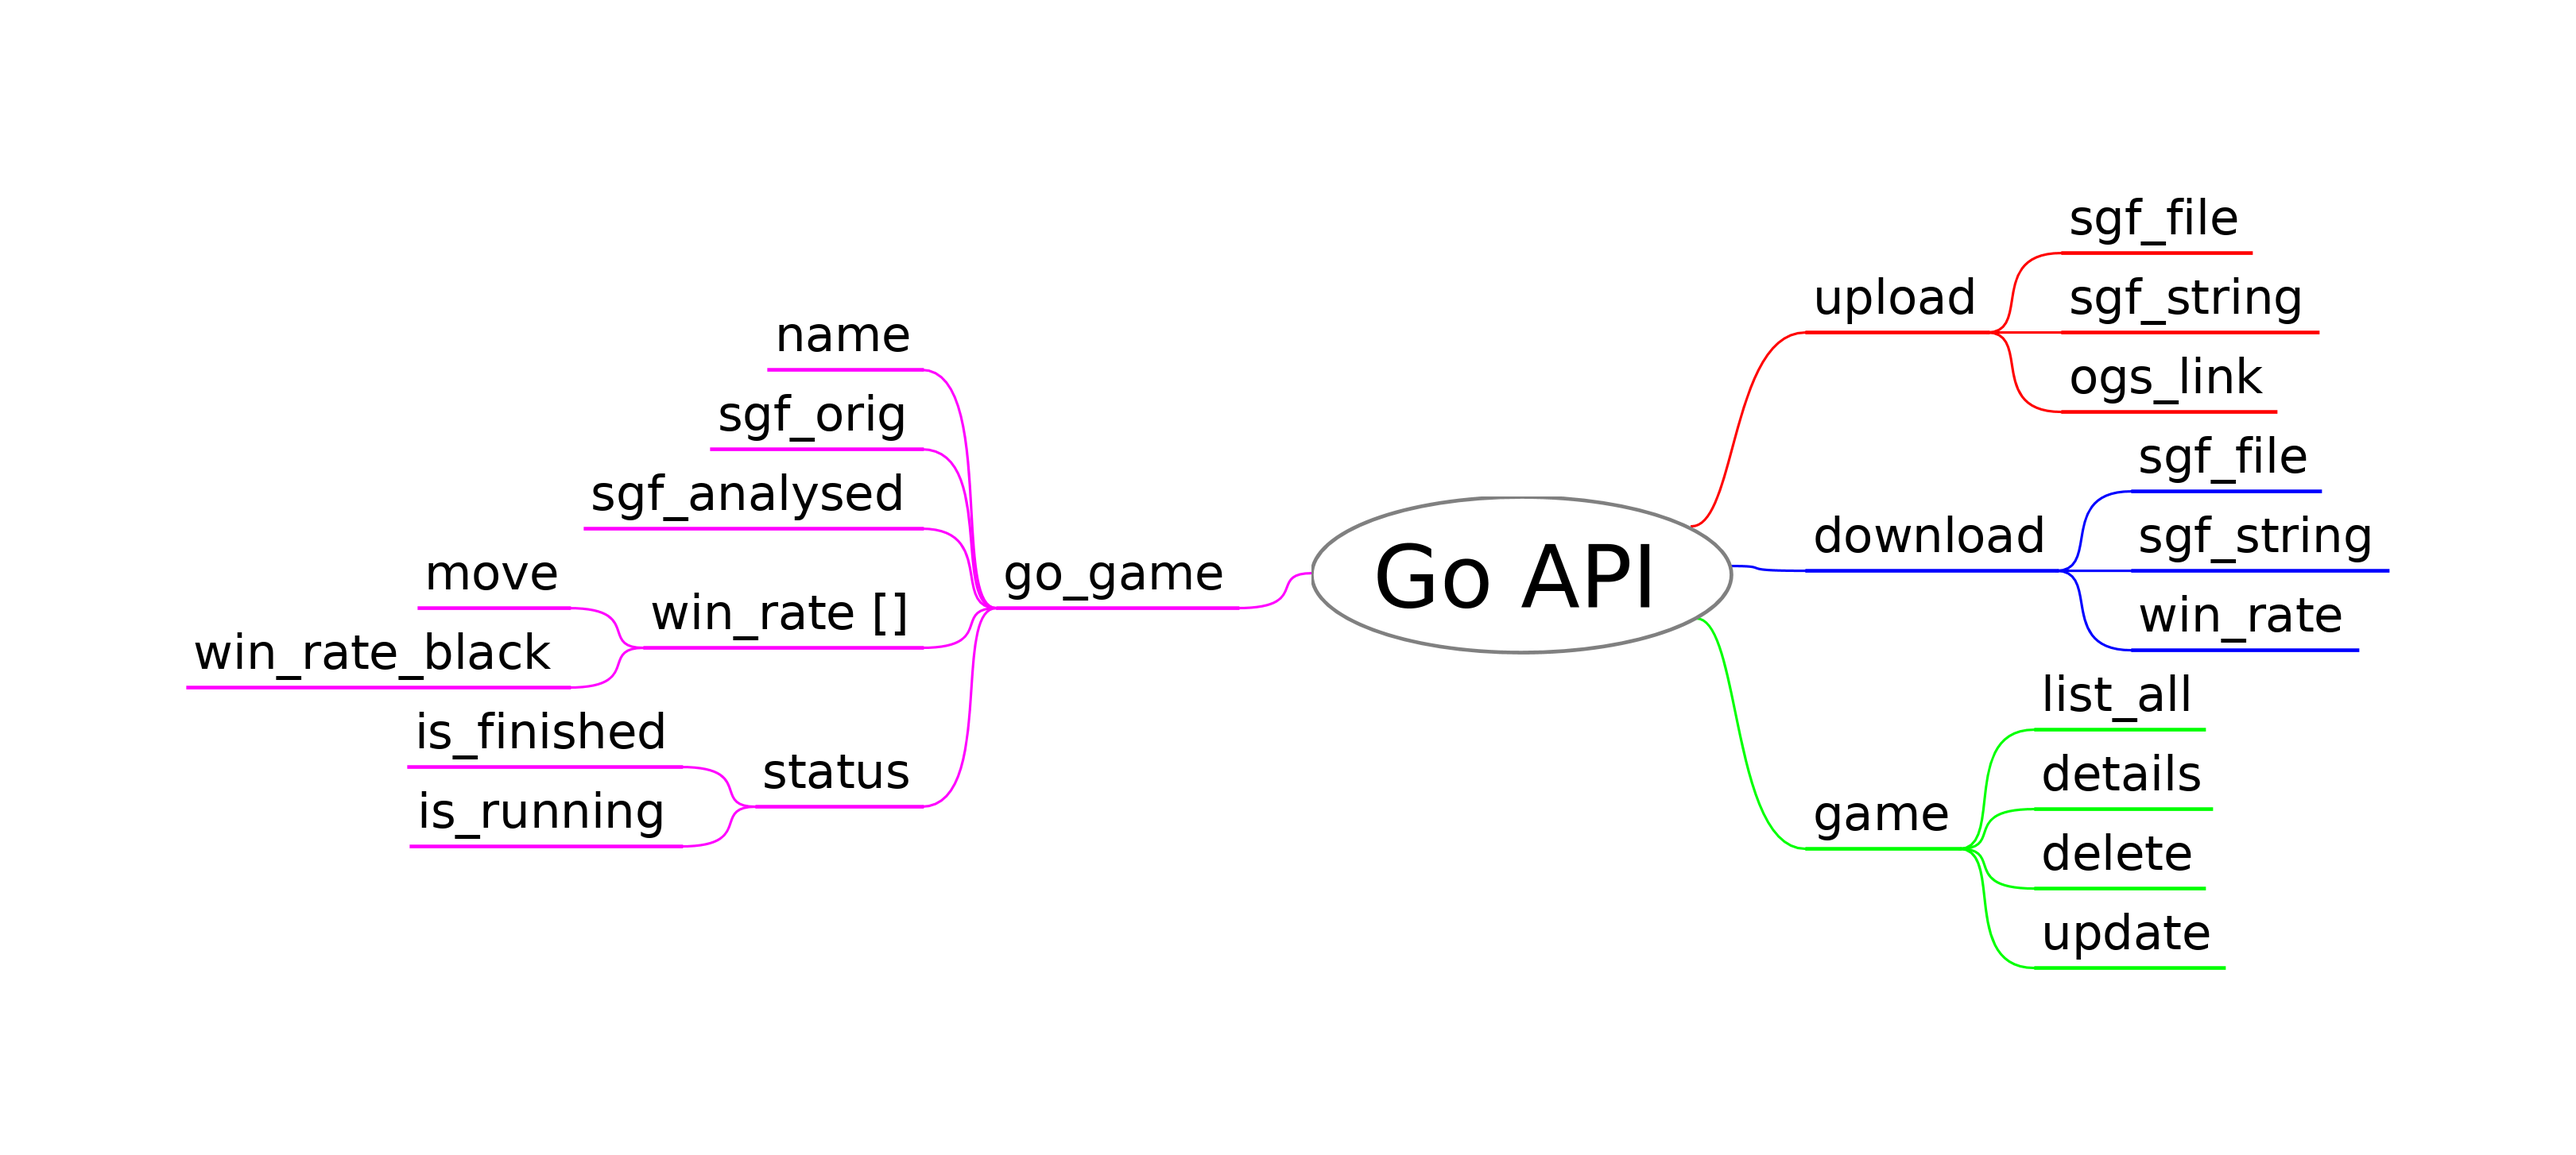
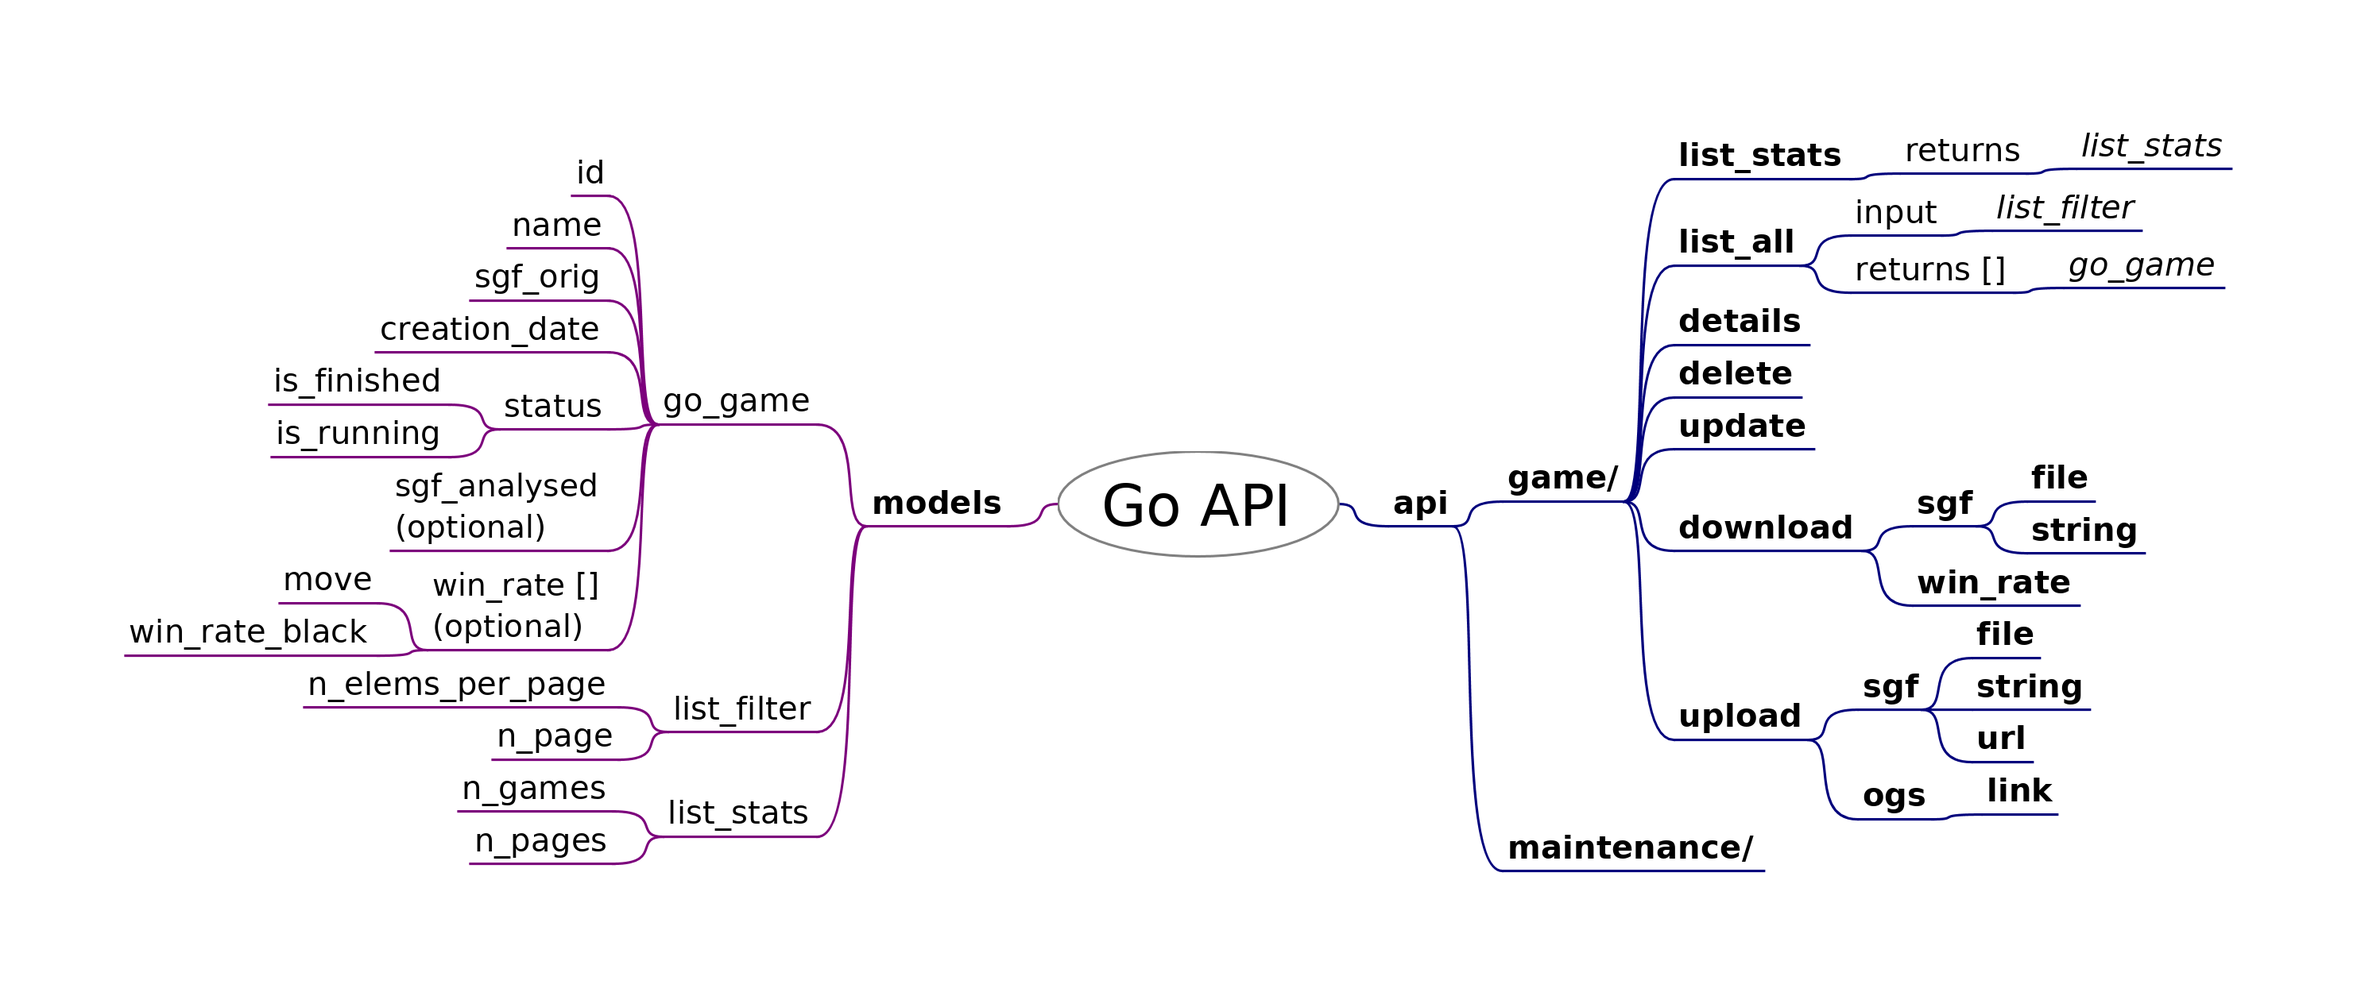
simplified the api, started to fill it (list, upload)

diff --git a/lz_api/doc/Go_API.mm b/lz_api/doc/Go_API.mm
@@ -2,7 +2,7 @@
 <!--To view this file, download free mind mapping software Freeplane from http://freeplane.sourceforge.net -->
 <node TEXT="Go API" FOLDED="false" ID="ID_589159613" CREATED="1557085032286" MODIFIED="1557085055442" STYLE="oval">
 <font SIZE="18"/>
-<hook NAME="MapStyle" zoom="1.5">
+<hook NAME="MapStyle">
     <properties edgeColorConfiguration="#808080ff,#ff0000ff,#0000ffff,#00ff00ff,#ff00ffff,#00ffffff,#7c0000ff,#00007cff,#007c00ff,#7c007cff,#007c7cff,#7c7c00ff" fit_to_viewport="false"/>
 
 <map_styles>
@@ -63,38 +63,109 @@
 </stylenode>
 </map_styles>
 </hook>
-<hook NAME="AutomaticEdgeColor" COUNTER="6" RULE="ON_BRANCH_CREATION"/>
-<node TEXT="upload" POSITION="right" ID="ID_1831737546" CREATED="1557085068928" MODIFIED="1557085074042">
-<edge COLOR="#ff0000"/>
-<node TEXT="sgf_file" ID="ID_1039764863" CREATED="1557085074727" MODIFIED="1557085081961"/>
-<node TEXT="sgf_string" ID="ID_989102220" CREATED="1557085147666" MODIFIED="1557085194710"/>
-<node TEXT="ogs_link" ID="ID_1282616712" CREATED="1557085082272" MODIFIED="1557085160093"/>
+<hook NAME="AutomaticEdgeColor" COUNTER="9" RULE="ON_BRANCH_CREATION"/>
+<node TEXT="api" POSITION="right" ID="ID_144943947" CREATED="1557168431692" MODIFIED="1557168577504">
+<edge COLOR="#00007c"/>
+<font BOLD="true" ITALIC="false"/>
+<node TEXT="game/" ID="ID_1853707191" CREATED="1557085213435" MODIFIED="1557170858689">
+<font BOLD="true"/>
+<node TEXT="list_stats" ID="ID_1895074512" CREATED="1557170835864" MODIFIED="1557170861417">
+<font BOLD="true"/>
+<node TEXT="returns" ID="ID_1651328029" CREATED="1557170840800" MODIFIED="1557170854729">
+<font ITALIC="false"/>
+<node TEXT="list_stats" ID="ID_408615461" CREATED="1557170921153" MODIFIED="1557170955569">
+<font ITALIC="true"/>
 </node>
-<node TEXT="download" POSITION="right" ID="ID_1873904492" CREATED="1557085133530" MODIFIED="1557085136492">
-<edge COLOR="#0000ff"/>
-<node TEXT="sgf_file" ID="ID_1595185954" CREATED="1557085138273" MODIFIED="1557085143950"/>
-<node TEXT="sgf_string" ID="ID_719820272" CREATED="1557085170930" MODIFIED="1557085198846"/>
-<node TEXT="win_rate" ID="ID_1382339492" CREATED="1557085790278" MODIFIED="1557085793056"/>
 </node>
-<node TEXT="game" POSITION="right" ID="ID_1853707191" CREATED="1557085213435" MODIFIED="1557085323151">
-<edge COLOR="#00ff00"/>
-<node TEXT="list_all" ID="ID_831796552" CREATED="1557085215931" MODIFIED="1557085330633"/>
-<node TEXT="details" ID="ID_442193816" CREATED="1557085222491" MODIFIED="1557085340376"/>
-<node TEXT="delete" ID="ID_1295768095" CREATED="1557085569047" MODIFIED="1557085573809"/>
-<node TEXT="update" ID="ID_1105595237" CREATED="1557085595349" MODIFIED="1557085597064"/>
 </node>
-<node TEXT="go_game" POSITION="left" ID="ID_684286583" CREATED="1557085386711" MODIFIED="1557085392130">
-<edge COLOR="#ff00ff"/>
+<node TEXT="list_all" ID="ID_831796552" CREATED="1557085215931" MODIFIED="1557170861937">
+<font BOLD="true"/>
+<node TEXT="input" ID="ID_344615804" CREATED="1557170687792" MODIFIED="1557170689906">
+<node TEXT="list_filter" ID="ID_1077375188" CREATED="1557170820817" MODIFIED="1557170917069">
+<font ITALIC="true"/>
+</node>
+</node>
+<node TEXT="returns []" ID="ID_1508034912" CREATED="1557170690087" MODIFIED="1557170697346">
+<node TEXT="go_game" ID="ID_1997446733" CREATED="1557170698064" MODIFIED="1557170701584">
+<font ITALIC="true"/>
+</node>
+</node>
+</node>
+<node TEXT="details" ID="ID_442193816" CREATED="1557085222491" MODIFIED="1557170862353">
+<font BOLD="true"/>
+</node>
+<node TEXT="delete" ID="ID_1295768095" CREATED="1557085569047" MODIFIED="1557170862769">
+<font BOLD="true"/>
+</node>
+<node TEXT="update" ID="ID_1105595237" CREATED="1557085595349" MODIFIED="1557170863201">
+<font BOLD="true"/>
+</node>
+<node TEXT="download" ID="ID_1873904492" CREATED="1557085133530" MODIFIED="1557170873953">
+<font BOLD="true"/>
+<node TEXT="sgf" ID="ID_1989242305" CREATED="1557168217178" MODIFIED="1557170873956">
+<font BOLD="true"/>
+<node TEXT="file" ID="ID_1875828429" CREATED="1557168218690" MODIFIED="1557170873956">
+<font BOLD="true"/>
+</node>
+<node TEXT="string" ID="ID_863372352" CREATED="1557168220122" MODIFIED="1557170873956">
+<font BOLD="true"/>
+</node>
+</node>
+<node TEXT="win_rate" ID="ID_1382339492" CREATED="1557085790278" MODIFIED="1557170873957">
+<font BOLD="true"/>
+</node>
+</node>
+<node TEXT="upload" ID="ID_1831737546" CREATED="1557085068928" MODIFIED="1557170868697">
+<font BOLD="true"/>
+<node TEXT="sgf" ID="ID_776026031" CREATED="1557168245746" MODIFIED="1557170868699">
+<font BOLD="true"/>
+<node TEXT="file" ID="ID_1057338282" CREATED="1557168248874" MODIFIED="1557170868700">
+<font BOLD="true"/>
+</node>
+<node TEXT="string" ID="ID_811286746" CREATED="1557168250322" MODIFIED="1557170868701">
+<font BOLD="true"/>
+</node>
+<node TEXT="url" ID="ID_890198572" CREATED="1557168254122" MODIFIED="1557170868701">
+<font BOLD="true"/>
+</node>
+</node>
+<node TEXT="ogs" ID="ID_1282616712" CREATED="1557085082272" MODIFIED="1557170868702">
+<font BOLD="true"/>
+<node TEXT="link" ID="ID_991235352" CREATED="1557168270899" MODIFIED="1557170868702">
+<font BOLD="true"/>
+</node>
+</node>
+</node>
+</node>
+<node TEXT="maintenance/" ID="ID_472377561" CREATED="1557168456649" MODIFIED="1557170859345">
+<font BOLD="true"/>
+</node>
+</node>
+<node TEXT="models" POSITION="left" ID="ID_56564119" CREATED="1557168437523" MODIFIED="1557168575600">
+<edge COLOR="#7c007c"/>
+<font BOLD="true" ITALIC="false"/>
+<node TEXT="go_game" ID="ID_684286583" CREATED="1557085386711" MODIFIED="1557168485168">
+<node TEXT="id" ID="ID_411445396" CREATED="1557170097833" MODIFIED="1557170099298"/>
 <node TEXT="name" ID="ID_297122714" CREATED="1557085434085" MODIFIED="1557085435310"/>
 <node TEXT="sgf_orig" ID="ID_1169920154" CREATED="1557085397151" MODIFIED="1557085543411"/>
-<node TEXT="sgf_analysed" ID="ID_931193610" CREATED="1557085543744" MODIFIED="1557085551027"/>
-<node TEXT="win_rate []" ID="ID_1454023457" CREATED="1557085683921" MODIFIED="1557085726931">
-<node TEXT="move" ID="ID_620373457" CREATED="1557085727560" MODIFIED="1557085734946"/>
-<node TEXT="win_rate_black" ID="ID_1201810077" CREATED="1557085735208" MODIFIED="1557085763121"/>
-</node>
+<node TEXT="creation_date" ID="ID_385605680" CREATED="1557168553018" MODIFIED="1557168558356"/>
 <node TEXT="status" ID="ID_1749576803" CREATED="1557085399079" MODIFIED="1557085400122">
 <node TEXT="is_finished" ID="ID_446846876" CREATED="1557085494947" MODIFIED="1557085654689"/>
 <node TEXT="is_running" ID="ID_1939121792" CREATED="1557085524753" MODIFIED="1557085530332"/>
+</node>
+<node TEXT="sgf_analysed&#xa;(optional)" ID="ID_931193610" CREATED="1557085543744" MODIFIED="1557168384602"/>
+<node TEXT="win_rate []&#xa;(optional)" ID="ID_1454023457" CREATED="1557085683921" MODIFIED="1557168390974">
+<node TEXT="move" ID="ID_620373457" CREATED="1557085727560" MODIFIED="1557085734946"/>
+<node TEXT="win_rate_black" ID="ID_1201810077" CREATED="1557085735208" MODIFIED="1557085763121"/>
+</node>
+</node>
+<node TEXT="list_filter" ID="ID_1231789525" CREATED="1557170709464" MODIFIED="1557170712682">
+<node TEXT="n_elems_per_page" ID="ID_1058258051" CREATED="1557170718952" MODIFIED="1557170745395"/>
+<node TEXT="n_page" ID="ID_1942502046" CREATED="1557170746824" MODIFIED="1557170751795"/>
+</node>
+<node TEXT="list_stats" ID="ID_969101623" CREATED="1557170938025" MODIFIED="1557170941435">
+<node TEXT="n_games" ID="ID_148309143" CREATED="1557170945928" MODIFIED="1557170948099"/>
+<node TEXT="n_pages" ID="ID_766218601" CREATED="1557170942409" MODIFIED="1557170945492"/>
 </node>
 </node>
 </node>

diff --git a/lz_api/src/apis/game.py b/lz_api/src/apis/game.py
@@ -1,0 +1,101 @@
+#!/usr/bin/env python
+# -*- coding: utf-8 -*-
+"""
+game/ entry point.
+"""
+import uuid
+import datetime
+
+from flask_restplus import Resource, fields, Namespace
+
+from . import db_conn
+
+api = Namespace('game', description='Game information and changes.')
+
+status_model = api.model('Status', model={
+    'is_finished': fields.Boolean(required=True,
+                                  description='Is the analyze finished?',
+                                  example=False),
+    'is_running': fields.Boolean(required=True,
+                                 description='Is the analyze currently running?',
+                                 example=True),
+})
+
+win_rate_model = api.model('WinRate', model={
+    'move': fields.Integer(required=True,
+                           description='Move number.',
+                           example=42),
+    'win_rate_black': fields.Float(required=True,
+                                   description='Estimated win rate / probability of the black player [factor].',
+                                   min=0.0, max=1.0,
+                                   example=0.5),
+})
+
+game_id_model = api.model('GameID', model={
+    'game_id': fields.String(required=True,
+                             description='Unique game identifier',
+                             example=uuid.uuid4().hex),
+})
+
+sgf_string_model = api.model('SgfString', model={
+    'sgf_string': fields.String(required=False,
+                                description='SGF content.',
+                                example='(;GM[1]FF[4]AP[qGo:2.1.0]ST[1] SZ[19]HA[0]KM[5.5]PW[White]PB[Black] ;B[pd])'),
+})
+
+game_model = api.model('Game', model={
+    'game_id': game_id_model['game_id'],
+    'name': fields.String(required=True,
+                          description='Name of the game, file, .etc',
+                          example='The best game ever'),
+    'sgf_orig': sgf_string_model['sgf_string'],
+    'creation_date': fields.DateTime(required=True,
+                                     description='Creation / upload date.',
+                                     example='2018-11-01T15:40:51.422167'),
+    'status': fields.Nested(status_model,
+                            description='Go analyze status.',
+                            required=True),
+    'sgf_analyzed': sgf_string_model['sgf_string'],
+    'win_rate': fields.List(fields.Nested(win_rate_model),
+                            required=False,
+                            description='Estimated win rate (black) for each move.'),
+})
+
+
+@api.route('/list_all')
+class ListAll(Resource):
+    @api.marshal_list_with(game_model)
+    def post(self):
+        """
+        Returns all available games in the database sorted by creation date.
+        """
+        return [], 200
+
+
+@api.route('/upload/sgf/string')
+class UploadSgfString(Resource):
+    @api.expect(sgf_string_model)
+    @api.marshal_with(game_id_model)
+    def post(self):
+        """
+        Upload a SGF by raw string.
+        """
+        game_id = uuid.uuid4().hex
+
+        game = {
+            '_id': game_id,
+            'name': 'Raw SGF upload',
+            'sgf_orig': api.payload['sgf_string'],
+            'creation_date': datetime.datetime.now(),
+            'status': {
+                'is_finished': False,
+                'is_running': False
+            },
+            'sgf_analyzed': None,
+            'win_rate': None,
+        }
+
+        import pprint
+        pprint.pprint(game)
+
+        return {'game_id': game_id}, 200

diff --git a/lz_api/src/apis/__init__.py b/lz_api/src/apis/__init__.py
@@ -1,6 +1,6 @@
 from flask_restplus import Api
 
-from .status import api as ns_status
+from .game import api as ns_game
 
 api = Api(
     title='Go Game Analysis API',
@@ -8,5 +8,5 @@ api = Api(
     description='Basic Go Game Analysis API',
 )
 
-api.add_namespace(ns_status)
+api.add_namespace(ns_game)
 
